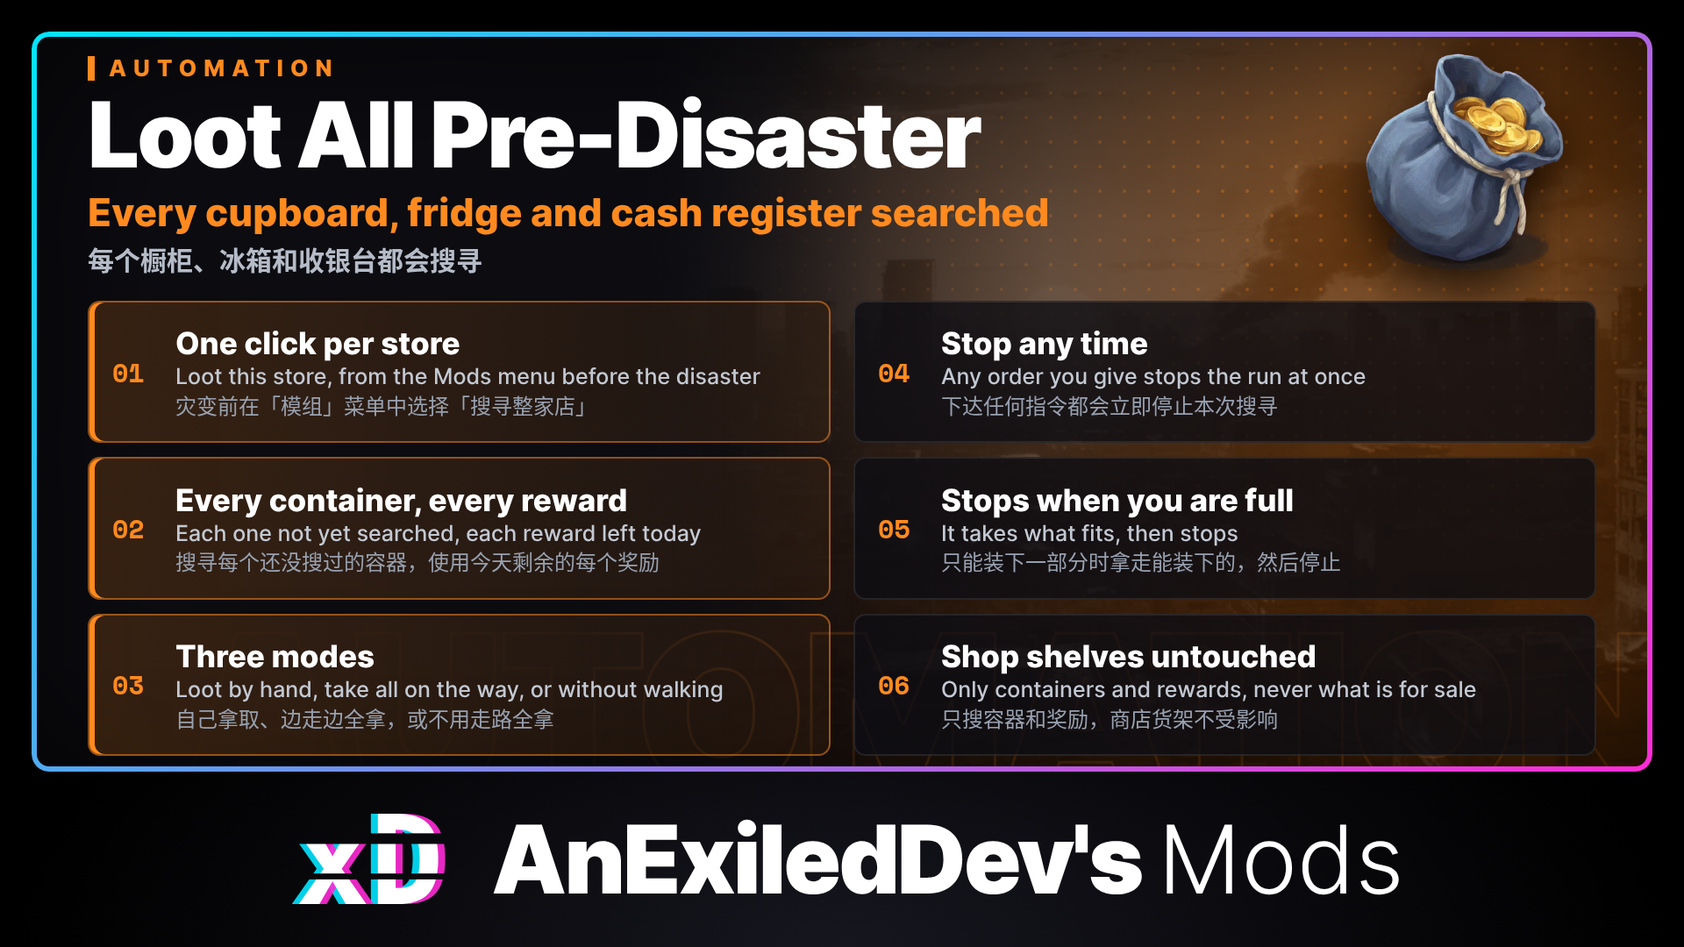
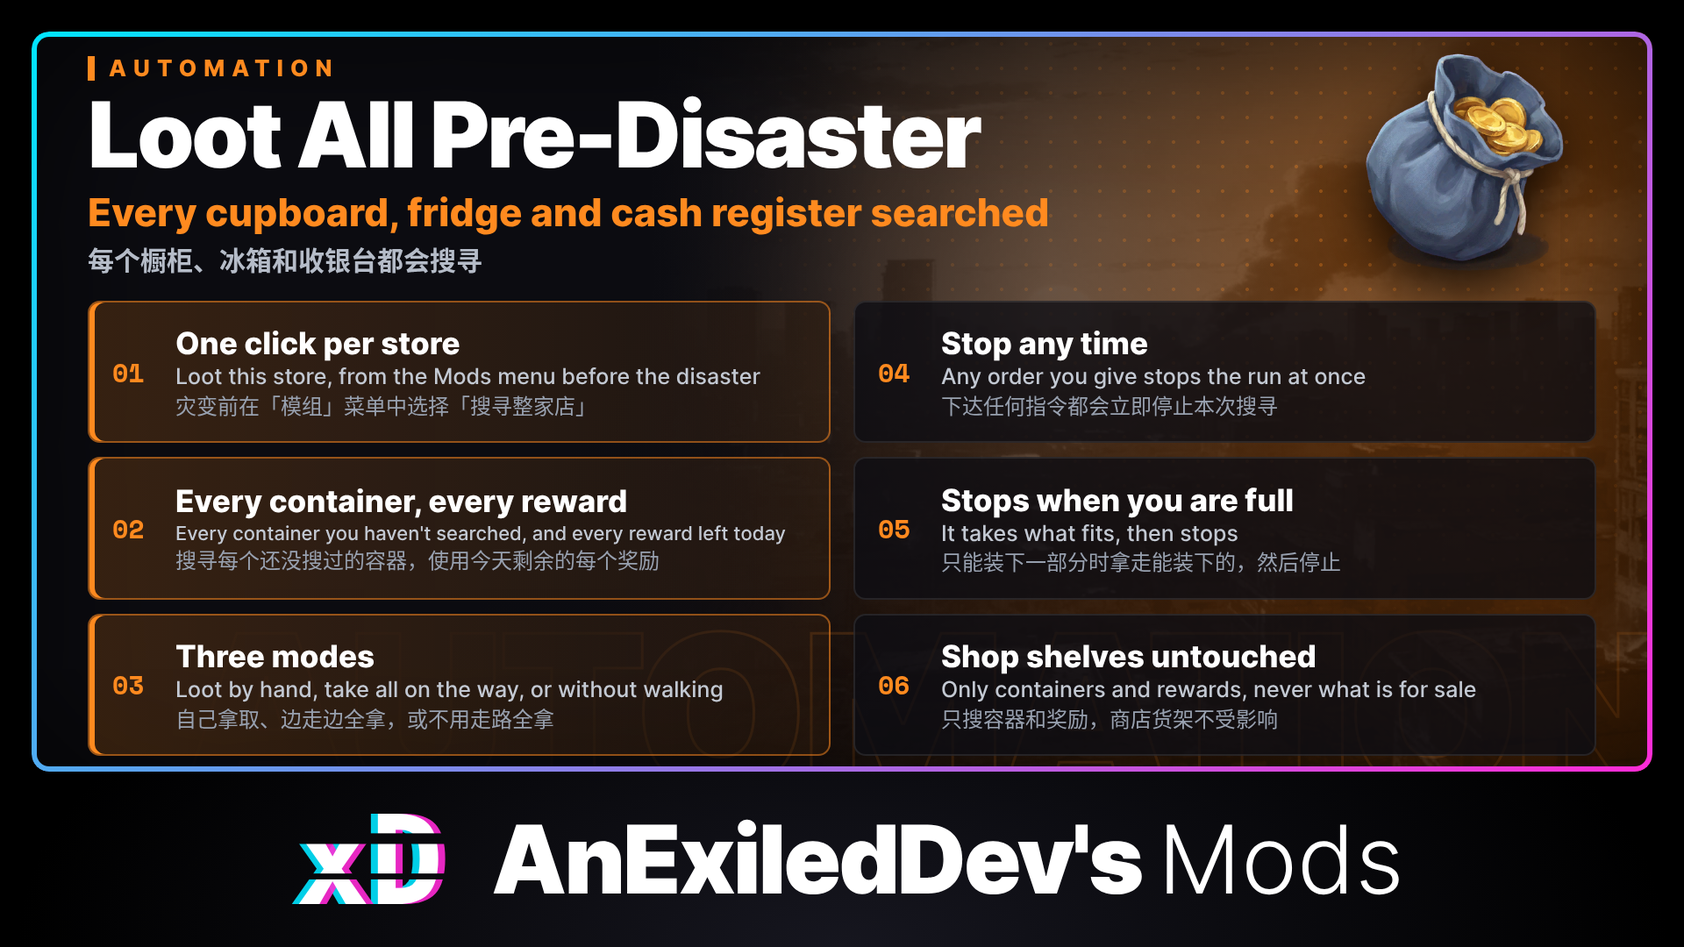
Loot All Pre-Disaster 0.2.2: clearer wording
The Mode setting, the menu tooltip and the full storage messages read more plainly, and the full storage messages now name the Loot this store entry.
README, NEXUS.md and CONFIG.md lose their semicolons and stiff phrasing, and list Survival Log 1.1.20719 as the game version.
New features image.

Changed region(s): [[0.0938, 0.5194, 0.4688, 0.6111]]

diff --git a/src/LootAllPreDisaster/Plugin.cs b/src/LootAllPreDisaster/Plugin.cs
@@ -16,7 +16,7 @@ namespace LootAllPreDisaster;
 public sealed class Plugin : BasePlugin
 {
     private const string Guid = "com.dev.survivallog.lootallpredisaster";
-    private const string Version = "0.2.1";
+    private const string Version = "0.2.2";
 
     /// <summary>Lines add up over many sessions, so past 1 MB the file is moved aside and started again.</summary>
     private const long MaxLogBytes = 1024 * 1024;
@@ -31,8 +31,8 @@ public sealed class Plugin : BasePlugin
         log.Write($"===== Loot All Pre-Disaster {Version} started");
 
         var mode = Config.Bind("Loot", "Mode", 1, new ConfigDescription(
-            "How a press loots the store. 1: walk to each container and interaction; each container's bag window opens and you take what you want. 2: walk to each one and take everything at once with no window, into the trunk first if you have a car or shopping cart, then the bag. 3: take everything at once with no window and no walking; each action still takes its normal time.\n" +
-            "按下后如何搜寻商店。1：走到每个容器和互动处；每个容器的背包窗口会打开，由你自己拿取想要的物品。2：走到每一处，不打开窗口直接拿走全部物品，有汽车或购物车时先放进后备箱，再放进背包。3：不打开窗口、不走动，直接拿走全部物品；每个动作仍需正常的时间。",
+            "What happens when you click Loot this store. 1: you walk to each container and interaction, and each container's bag window opens so you can take what you want. 2: you walk to each one and take everything with no window. Items go into your trunk first if you have a car or shopping cart, then into your bag. 3: you take everything with no window and without walking. Each action still takes its normal time.\n" +
+            "点击「搜寻整家店」后怎么搜。1：走到每个容器和互动处，每个容器都会打开背包窗口，你自己拿想要的东西。2：走到每一处，不打开窗口，直接拿走全部物品。有汽车或购物车时先放进后备箱，再放进背包。3：不打开窗口，也不走动，直接拿走全部物品。每个动作仍然花正常的时间。",
             new AcceptableValueRange<int>(1, 3), WorldRules.Tag));
         var settings = WatchSettings(mode, log.Write);
         var store = new GameStore(log.Write);

diff --git a/src/LootAllPreDisaster/Core/Texts.cs b/src/LootAllPreDisaster/Core/Texts.cs
@@ -10,8 +10,8 @@ public static class Texts
     public static readonly Phrase MenuLabel = new("Loot this store", "搜寻整家店");
 
     public static readonly Phrase MenuTitle = new(
-        "Search every container and use every reward item in the store you are in",
-        "搜寻你所在商店的所有容器，并使用所有能获得奖励的物品");
+        "Search every container and use every daily reward in the store you're in",
+        "搜寻你所在商店的所有容器，并使用所有还有每日奖励的互动");
 
     public static readonly Phrase NoGame = new("Load a game first.", "请先载入存档。");
 
@@ -22,16 +22,16 @@ public static class Texts
     public static readonly Phrase NothingLeft = new("Nothing left to loot in this store today.", "这家店今天没有可搜寻的东西了。");
 
     public static readonly Phrase Failed = new(
-        "Could not start. See BepInEx\\loot-all-pre-disaster.log.",
-        "无法开始。请查看 BepInEx\\loot-all-pre-disaster.log。");
+        "The run couldn't start. Check BepInEx\\loot-all-pre-disaster.log.",
+        "无法开始搜寻。请查看 BepInEx\\loot-all-pre-disaster.log。");
 
     public static readonly Phrase TrunkAndBagFull = new(
-        "Trunk and bag are full. Unload at home, then press again to carry on.",
-        "后备箱和背包已满。回家卸货后再按一次即可继续。");
+        "Your trunk and bag are full. Unload at home, then click Loot this store again to carry on.",
+        "后备箱和背包都满了。回家卸货后，再点一次「搜寻整家店」即可继续。");
 
     public static readonly Phrase BagFull = new(
-        "Your bag is full. Unload at home, then press again to carry on.",
-        "背包已满。回家卸货后再按一次即可继续。");
+        "Your bag is full. Unload at home, then click Loot this store again to carry on.",
+        "背包满了。回家卸货后，再点一次「搜寻整家店」即可继续。");
 
     public static Phrase Started(int containers, int rewards) => new(
         $"Looting {containers} {Plural(containers, "container", "containers")} and {rewards} {Plural(rewards, "interaction", "interactions")}.",

diff --git a/NEXUS.md b/NEXUS.md
@@ -1,5 +1,5 @@
 Name: Loot All Pre-Disaster
-Summary: Clean out a whole store before the disaster with one click: every cupboard, fridge and cash register is searched and every daily reward is used, from the inventory's Mods menu. Walk to each one and loot by hand, take everything on the way, or take it all without walking. Any order you give stops the run. Needs Exiled's Toolkit.
+Summary: Clean out a whole store before the disaster with one click in the inventory's Mods menu. Every cupboard, fridge and cash register gets searched and every daily reward gets used. Walk to each one and loot by hand, take everything on the way, or take it all without walking. Any order you give during a run stops it right away. Needs Exiled's Toolkit.
 
 Description (BBCode):
 [center][img]https://sldb.core-directive.com/media/save/1-save-safe.png[/img][/center]
@@ -9,15 +9,15 @@ Before the disaster, cleaning out a store means clicking every cupboard, fridge 
 [size=5]Main features[/size]
 [list]
 [*][b]One click per store[/b]: open the inventory and pick [b]Loot this store[/b] from the Mods dropdown. The entry only shows before the disaster.[/*]
-[*][b]Every container, every reward[/b]: each container not yet searched is searched, and each interaction with a daily reward left today is used. Shop shelves are never touched.[/*]
-[*][b]Three modes[/b]: 1) walk to each one and loot each bag window by hand, the default and the closest to normal play; 2) walk to each one and take everything with no window, trunk first if you own a car or shopping cart, then your bag; 3) take everything with no window and no walking; each action still takes its normal time.[/*]
-[*][b]Stop any time[/b]: any order you give during a run, such as a click to walk somewhere, stops the run and is carried out at once.[/*]
-[*][b]Stops when you are full[/b]: in modes 2 and 3, a container that only part fits gives what fits and the run stops. Unload at home, come back and click again to carry on where you left off.[/*]
+[*][b]Every container, every reward[/b]: the run searches every container you haven't searched yet and uses every interaction that still has a daily reward left today. Shop shelves are never touched.[/*]
+[*][b]Three modes[/b]: mode 1, the default, walks you to each one and opens its bag window so you take what you want, which is the closest to playing by hand. Mode 2 walks you to each one and takes everything with no window, into your trunk first if you own a car or shopping cart, then your bag. Mode 3 takes everything with no window and no walking, and each action still takes its normal time.[/*]
+[*][b]Stop any time[/b]: any order you give during a run, such as a click to walk somewhere, stops the run and is carried out right away.[/*]
+[*][b]Stops when you are full[/b]: in modes 2 and 3, if only part of a container fits, you get what fits and the run stops. Unload at home, come back and click again to carry on where you left off.[/*]
 [/list]
 
-Pairs well with [url=https://www.nexusmods.com/survivallog/mods/32]Full Queue[/url]: its queue bar shows every waiting step of the run. An order you give during a run still stops the run, with or without Full Queue.
+Pairs well with [url=https://www.nexusmods.com/survivallog/mods/32]Full Queue[/url], which shows every waiting step of the run in the queue bar. An order you give during a run still stops the run, with or without Full Queue.
 
-The mod adds no data of its own to your save. Everything it does is the game's searches, interactions and item moves. You can remove it at any time.
+The mod adds nothing to your save. It only does the searches, interactions and item moves you could do by hand, so you can remove it at any time.
 
 Works in English and Chinese.
 
@@ -32,7 +32,7 @@ Works in English and Chinese.
 
 [size=5]Requirements[/size]
 [list]
-[*]Survival Log 1.1.19611. A game update can break it until the mod is updated.[/*]
+[*]Survival Log 1.1.20719. A game update can break it until the mod is updated.[/*]
 [*][url=https://www.nexusmods.com/survivallog/mods/12]BepInEx for Survival Log[/url]. Install it first.[/*]
 [*][url=https://www.nexusmods.com/survivallog/mods/61]Exiled's Toolkit[/url] 0.19.0 or newer, which draws the Mods menu and the notices. Loot All Pre-Disaster does not load without it.[/*]
 [*]Optional: [url=https://www.nexusmods.com/survivallog/mods/73]Mod Manager[/url]. With it, you can change every setting in game on its Mods screen and see what each one does, without opening the config file.[/*]
@@ -51,11 +51,11 @@ Works in English and Chinese.
 Delete [font=Courier New]LootAllPreDisaster.dll[/font] from the [font=Courier New]BepInEx\plugins[/font] folder.
 
 [size=5]Configuration[/size]
-To change the mode, edit [font=Courier New]BepInEx\config\com.dev.survivallog.lootallpredisaster.cfg[/font] while the game is closed, or change it in game on the Mod Manager's Mods screen with no restart. A new mode applies from the next click (see [url=https://github.com/AnExiledDev/SurvivalLog-LootAllPreDisaster/blob/main/CONFIG.md]CONFIG.md[/url]; the cfg file explains each setting in English and Chinese). Each world can keep its own mode: pick it for a new world in Customizable Difficulty, or, while you play, change it for that world alone on the Mods screen.
+To change the mode, edit [font=Courier New]BepInEx\config\com.dev.survivallog.lootallpredisaster.cfg[/font] while the game is closed, or change it in game on the Mod Manager's Mods screen with no restart. A new mode applies from the next click. The cfg file explains each setting in English and Chinese, and [url=https://github.com/AnExiledDev/SurvivalLog-LootAllPreDisaster/blob/main/CONFIG.md]CONFIG.md[/url] has the full list. Each world can keep its own mode: pick it for a new world in Customizable Difficulty, or, while you play, change it for that world alone on the Mods screen.
 
 [size=5]Feedback[/size]
 Found a bug or have an idea? Come say hi on the [url=https://discord.gg/trTsyxUFqg]Core Directive Discord[/url], or leave a comment here. For bugs, please include [font=Courier New]BepInEx\LogOutput.log[/font] and [font=Courier New]BepInEx\loot-all-pre-disaster.log[/font].
-To reach me directly, message [b]exiled.dev[/b] on Discord; you can find me in the [url=https://discord.gg/MZGg4gQAUe]official Survival Log Discord[/url]. I'm also on X as [url=https://x.com/AnExiledDev]@AnExiledDev[/url].
+To reach me directly, message [b]exiled.dev[/b] on Discord. You can find me in the [url=https://discord.gg/MZGg4gQAUe]official Survival Log Discord[/url]. I'm also on X as [url=https://x.com/AnExiledDev]@AnExiledDev[/url].
 
 [size=5]Source and license[/size]
 Open source under MIT: [url=https://github.com/AnExiledDev/SurvivalLog-LootAllPreDisaster]github.com/AnExiledDev/SurvivalLog-LootAllPreDisaster[/url]
@@ -69,14 +69,14 @@ Open source under MIT: [url=https://github.com/AnExiledDev/SurvivalLog-LootAllPr
 [list]
 [*][b]一家店一键搞定[/b]：打开背包，在「模组」下拉菜单中选择[b]「搜寻整家店」[/b]。该选项只在灾变前显示。[/*]
 [*][b]所有容器，所有奖励[/b]：搜寻每个还没搜寻过的容器，并使用每个今天还有剩余奖励的互动。商店货架不受影响。[/*]
-[*][b]三种模式[/b]：1）走到每一处，在每个背包窗口中自己拿取，这是默认模式，也最接近正常游玩；2）走到每一处，不打开窗口直接拿走全部物品，有汽车或购物车时先放进后备箱，再放进背包；3）不打开窗口、不走动，直接拿走全部物品；每个动作仍需正常的时间。[/*]
+[*][b]三种模式[/b]：模式 1 是默认模式，会走到每一处并打开背包窗口，由你自己拿想要的东西，最接近手动游玩。模式 2 会走到每一处，不打开窗口，直接拿走全部物品，有汽车或购物车时先放进后备箱，再放进背包。模式 3 不打开窗口，也不走动，直接拿走全部物品，每个动作仍然花正常的时间。[/*]
 [*][b]随时停止[/b]：搜寻过程中下达任何指令（比如点击走到别处），都会停止本次搜寻，并立即执行你的指令。[/*]
-[*][b]装满即停[/b]：在模式 2 和 3 中，如果一个容器只能装下一部分，会拿走能装下的，然后停止。回家卸货后再回来按一次，即可从中断处继续。[/*]
+[*][b]装满即停[/b]：在模式 2 和 3 中，如果一个容器里的东西只装得下一部分，就先拿走装得下的，然后停止搜寻。回家卸货后再回来点一次，就会从中断的地方继续。[/*]
 [/list]
 
-推荐搭配 [url=https://www.nexusmods.com/survivallog/mods/32]Full Queue[/url]：它的队列栏会显示本次搜寻所有等待中的步骤。无论是否安装 Full Queue，搜寻过程中下达的指令都会停止本次搜寻。
+推荐搭配 [url=https://www.nexusmods.com/survivallog/mods/32]Full Queue[/url]，它会在队列栏里显示本次搜寻所有等待中的步骤。无论是否安装 Full Queue，搜寻过程中下达的指令都会停止本次搜寻。
 
-模组不会往存档里写入自己的数据。它做的一切都是游戏自己的搜寻、互动和物品移动。你可以随时移除它。
+模组不会往存档里添加任何东西。它只做你自己也能手动完成的搜寻、互动和物品移动，所以随时可以移除。
 
 支持英文和中文。
 
@@ -90,7 +90,7 @@ Open source under MIT: [url=https://github.com/AnExiledDev/SurvivalLog-LootAllPr
 
 [size=5]前置要求[/size]
 [list]
-[*]Survival Log 1.1.19611。游戏更新后模组可能暂时失效，直到模组更新为止。[/*]
+[*]Survival Log 1.1.20719。游戏更新后模组可能暂时失效，直到模组更新为止。[/*]
 [*][url=https://www.nexusmods.com/survivallog/mods/12]BepInEx for Survival Log[/url]，请先安装。[/*]
 [*][url=https://www.nexusmods.com/survivallog/mods/61]Exiled's Toolkit[/url] 0.19.0 或更新版本，用于显示「模组」菜单和提示。没有它，Loot All Pre-Disaster 无法加载。[/*]
 [*]可选：[url=https://www.nexusmods.com/survivallog/mods/73]Mod Manager[/url]。装了它，可以在游戏里它的「模组」界面修改每项设置，并看到每项的说明，不用打开配置文件。[/*]

diff --git a/README.md b/README.md
@@ -1,33 +1,33 @@
 # Loot All Pre-Disaster
 
-Before the disaster, one click searches every container and uses every reward interaction in the store you are in. It is meant for the days before the disaster, not for expeditions afterwards.
+Before the disaster, one click searches every container in the store you're in and uses every interaction that gives a daily reward. It only works in stores before the disaster, so it does nothing on expeditions afterwards.
 
 ## Features
 
-- **One entry in the Mods menu**: open the inventory, pick **Loot this store** from the Mods dropdown. The entry only shows before the disaster.
-- **Every container, every reward**: each container that has not been searched yet is searched, and each interaction that gives a daily reward (and still has some left today) is used. Shop shelves are never touched.
+- **One entry in the Mods menu**: open the inventory and pick **Loot this store** from the Mods dropdown. The entry only shows before the disaster.
+- **Every container, every reward**: the run searches every container you haven't searched yet and uses every interaction that still has a daily reward left today. Shop shelves are never touched.
 - **Three ways to loot** (`Mode`):
   1. Walk to each container and interaction. Each container's bag window opens as usual and you take what you want. This is the default and the closest to playing by hand.
   2. Walk to each one and take everything at once, with no window. Items go into your trunk first if you own a car or shopping cart, then into your bag.
-  3. Take everything at once with no window and no walking; each action still takes its normal time.
-- **Stop any time**: any order you give during a run, such as a click to walk somewhere, stops the run and is carried out at once.
-- **Stops when you are full**: in modes 2 and 3, a container that only part fits gives you what fits, then the run stops and tells you. Go home, unload, come back and click again: containers already searched are skipped, and the ones you could not empty are emptied first.
-- **Click again to carry on**: anything already searched, or any interaction used up for today, is skipped, so a second click only does what is left.
-- **Log file**: each click and how the run ended are written to `BepInEx\loot-all-pre-disaster.log`.
+  3. Take everything at once with no window and no walking. Each action still takes its normal time.
+- **Stop any time**: any order you give during a run, such as a click to walk somewhere, stops the run and is carried out right away.
+- **Stops when you are full**: in modes 2 and 3, if only part of a container fits, you get what fits, then the run stops and tells you. Go home, unload, come back and click again. Containers you already searched are skipped, and the ones you couldn't empty get emptied first.
+- **Click again to carry on**: containers you already searched and interactions that are used up for today are skipped, so a second click only does what is left.
+- **Log file**: each click and how each run ended are written to `BepInEx\loot-all-pre-disaster.log`.
 
-Settings are in [CONFIG.md](CONFIG.md). With the Mod Manager they change in game on its Mods screen, no restart needed. Each world can keep its own mode: pick it for a new world in Customizable Difficulty, or change it for that world alone on the Mods screen.
+Settings are in [CONFIG.md](CONFIG.md). With Mod Manager you can change them in game on its Mods screen, with no restart. Each world can keep its own mode: pick it for a new world in Customizable Difficulty, or change it for that world alone on the Mods screen.
 
-Pairs well with [Full Queue](https://www.nexusmods.com/survivallog/mods/32): its queue bar shows every waiting step of the run, not just the first 5. An order you give during a run still stops the run, with or without Full Queue.
+Pairs well with [Full Queue](https://www.nexusmods.com/survivallog/mods/32). Without it, the queue bar only shows the first 5 steps of a run, and with it you see every step. An order you give during a run still stops the run, with or without Full Queue.
 
 ## Known issues and limits
 
-- Works only in a store before the disaster. At home, or after the disaster, the click tells you why it did nothing.
+- Works only in a store before the disaster. If you click at home or after the disaster, a message tells you why nothing happened.
 - Only the floor you are standing on is looted.
-- Mode 3 skips the walk: an interaction that needs you to stand at it may look odd while it plays.
+- Mode 3 skips the walk, so an interaction that normally needs you to stand at it may look odd while it plays.
 
 ## Requirements
 
-- Survival Log 1.1.19611. Built and tested on this version; a game update can break it until the mod is updated.
+- Survival Log 1.1.20719. A game update can break it until the mod is updated.
 - The [BepInEx Pack for Survival Log](https://www.nexusmods.com/survivallog/mods/12), the BepInEx 6 (IL2CPP) build for the game.
 - **Exiled's Toolkit** 0.19.0 or newer, which draws the Mods menu and the notices. Loot All Pre-Disaster does not load without it.
 - Optional: [Mod Manager](https://www.nexusmods.com/survivallog/mods/73). With it, you can change every setting in game on its Mods screen and see what each one does, without opening the config file.
@@ -44,7 +44,7 @@ Delete `LootAllPreDisaster.dll` from the `BepInEx\plugins` folder. For a clean s
 
 ## Troubleshooting
 
-Check `BepInEx\LogOutput.log` for `===== Loot All Pre-Disaster 0.2.1 started`. The same lines are in `BepInEx\loot-all-pre-disaster.log`, which survives restarts, along with one line per click and one per run end.
+Check `BepInEx\LogOutput.log` for `===== Loot All Pre-Disaster 0.2.2 started`. The same lines are in `BepInEx\loot-all-pre-disaster.log`, which survives restarts, along with one line per click and one per run end.
 
 If the Mods menu has no **Loot this store** entry, make sure Exiled's Toolkit 0.19.0 or newer is installed and that the disaster has not happened yet.
 
@@ -52,7 +52,7 @@ If the Mods menu has no **Loot this store** entry, make sure Exiled's Toolkit 0.
 
 Found a bug, have an idea, or something feels off? Come say so on the Core Directive Discord: https://discord.gg/trTsyxUFqg . When reporting a bug, attach `BepInEx\LogOutput.log` and `BepInEx\loot-all-pre-disaster.log`.
 
-To reach me directly, message `exiled.dev` on Discord; you can find me in the [official Survival Log Discord](https://discord.gg/MZGg4gQAUe). I'm also on X as [@AnExiledDev](https://x.com/AnExiledDev).
+To reach me directly, message `exiled.dev` on Discord. You can find me in the [official Survival Log Discord](https://discord.gg/MZGg4gQAUe). I'm also on X as [@AnExiledDev](https://x.com/AnExiledDev).
 
 A Survival Log wiki with detailed documentation for all of my mods is coming soon.
 

diff --git a/CONFIG.md b/CONFIG.md
@@ -6,6 +6,6 @@ Settings live in `BepInEx\config\com.dev.survivallog.lootallpredisaster.cfg`, cr
 
 | Setting | Default | What it does |
 | --- | --- | --- |
-| `Mode` | `1` | How a click loots the store. `1`: walk to each container and interaction; each container's bag window opens and you take what you want. `2`: walk to each one and take everything at once with no window, into the trunk first if you own a car or shopping cart, then the bag. `3`: take everything at once with no window and no walking; each action still takes its normal time. |
+| `Mode` | `1` | What happens when you click **Loot this store**. `1`: you walk to each container and interaction, and each container's bag window opens so you can take what you want. `2`: you walk to each one and take everything with no window. Items go into your trunk first if you have a car or shopping cart, then into your bag. `3`: you take everything with no window and without walking. Each action still takes its normal time. |
 
-In modes 2 and 3, a container that only part fits gives what fits and stops the run. Unload at home, come back and click again to carry on.
+In modes 2 and 3, if only part of a container fits, you get what fits and the run stops. Unload at home, come back and click again to carry on.

diff --git a/CHANGELOG.md b/CHANGELOG.md
@@ -1,8 +1,13 @@
 # Changelog
 
+## 0.2.2
+
+- Clearer wording in the settings and in the messages on screen.
+- Made for Survival Log 1.1.20719.
+
 ## 0.2.1
 
-- Now uses Exiled's Toolkit for its shared parts, so it needs Exiled's Toolkit 0.19.0 or newer.
+- Now needs Exiled's Toolkit 0.19.0 or newer.
 - Made for Survival Log 1.1.20719.
 
 ## 0.2.0
